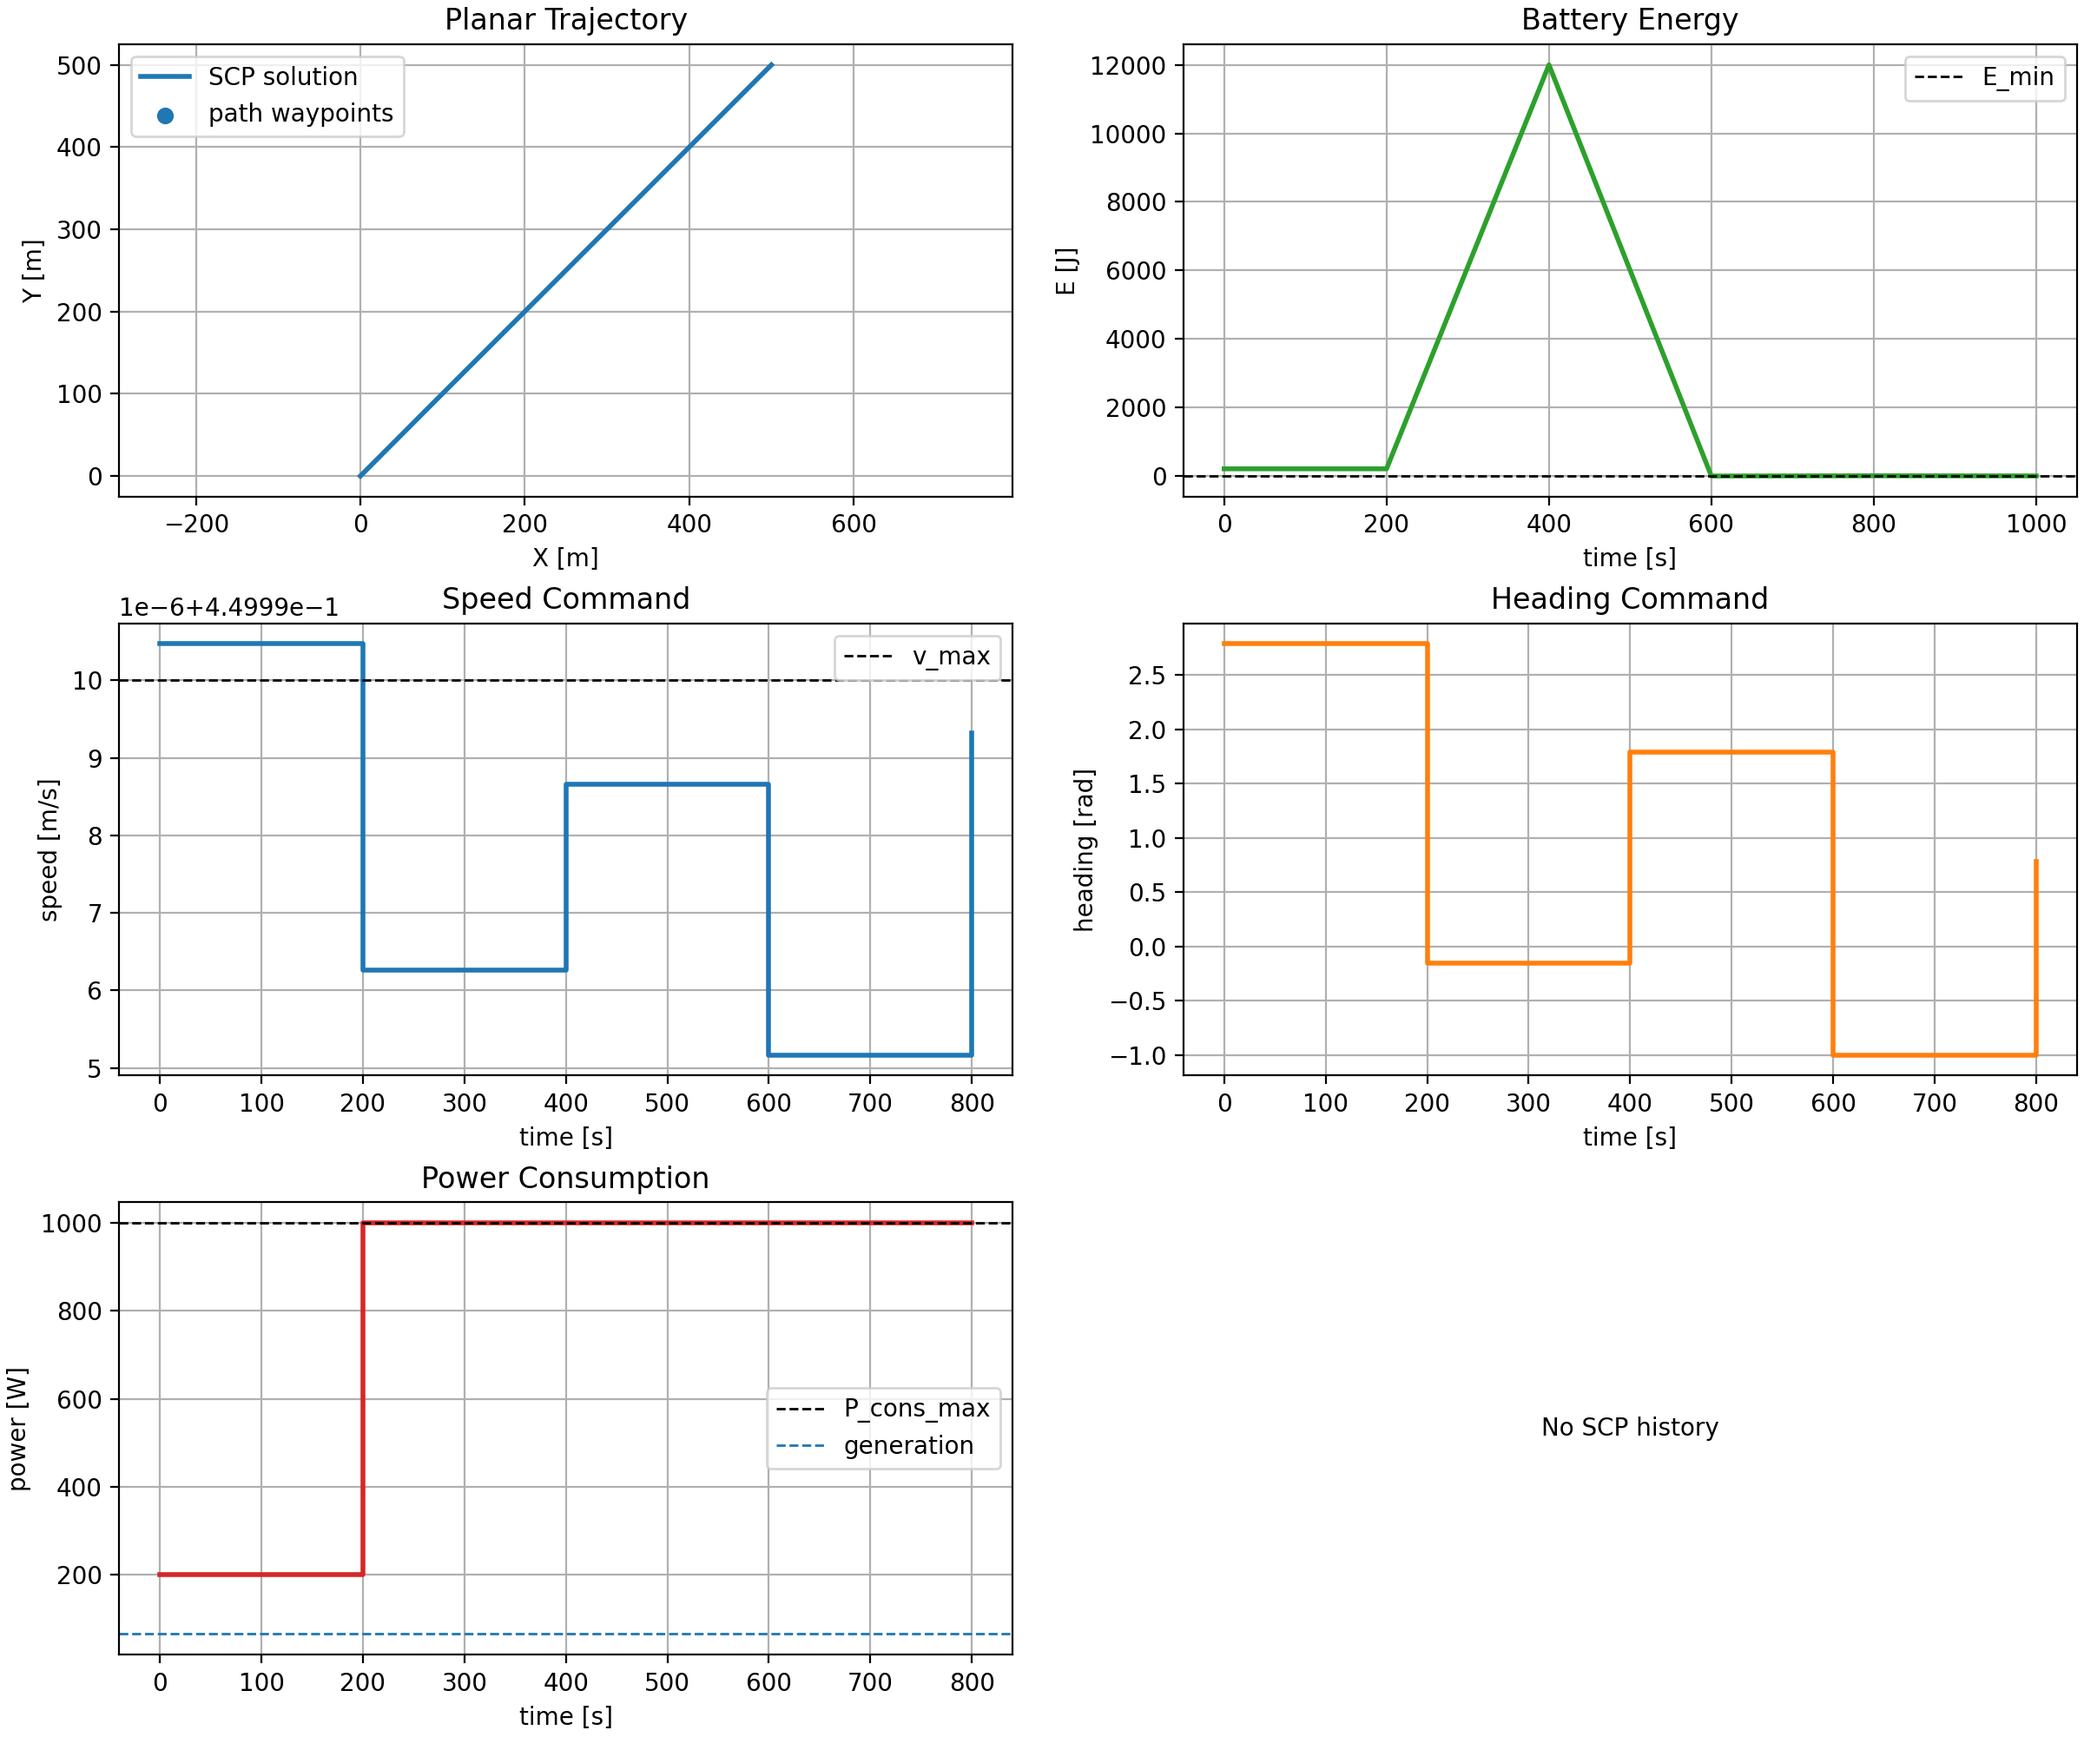
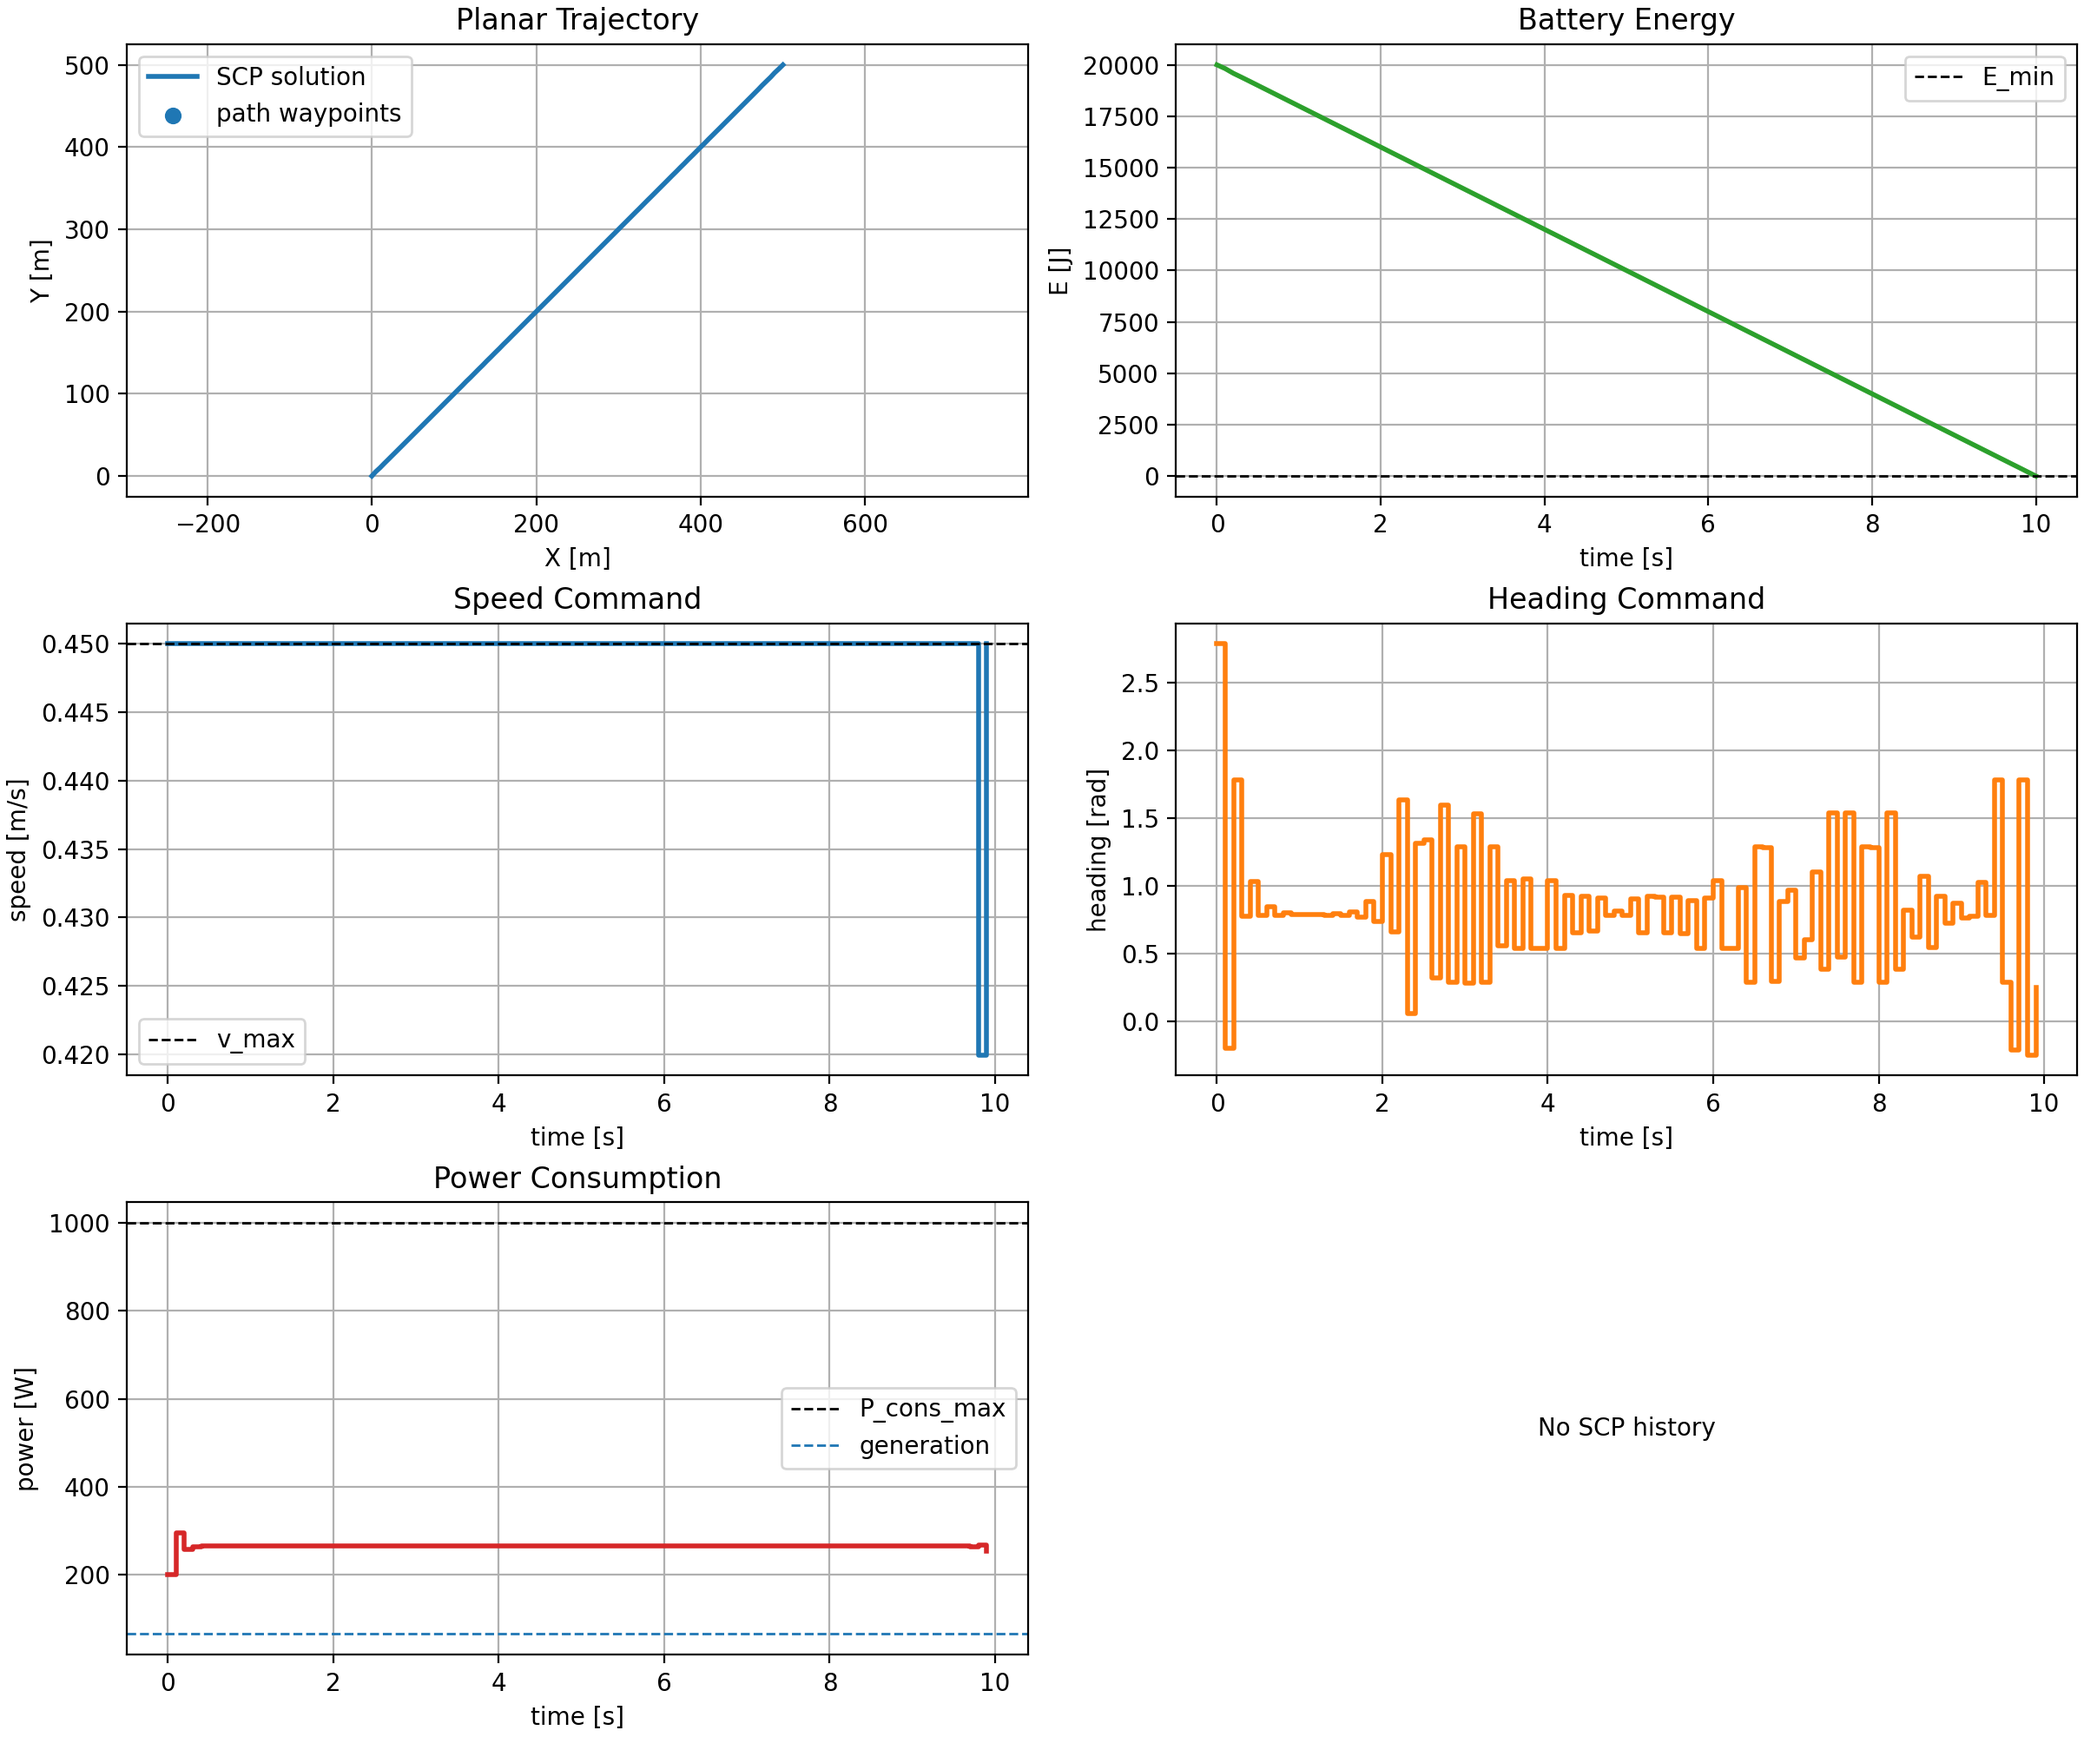
path planner + scp jax working

diff --git a/plot_planner_scp.py b/plot_planner_scp.py
@@ -4,24 +4,23 @@ import os
 import sys
 from pathlib import Path
 
+PROJECT_DIR = Path(__file__).resolve().parent
 import matplotlib
 
 matplotlib.use("Agg")
 import matplotlib.pyplot as plt
 import numpy as np
 
-from optimizer.scp import SCP, cp
+os.environ.setdefault("JAX_PLATFORM_NAME", "cpu")
+from optimizer.scp_jax import SCP
 from path_planner.planner import build_planner_solution
 
-THIS_DIR = Path(__file__).resolve().parent
-OUTPUT_PATH = THIS_DIR / "planner_scp_solution.png"
-
+OUTPUT_PATH = PROJECT_DIR / "planner_scp_solution.png"
 
 def path_length(points: np.ndarray) -> float:
     if len(points) < 2:
         return 0.0
     return float(np.sum(np.linalg.norm(np.diff(points[:, :2], axis=0), axis=1)))
-
 
 def build_planner_path(n_waypoints: int = 40):
     return build_planner_solution(
@@ -32,25 +31,24 @@ def build_planner_path(n_waypoints: int = 40):
         smoothing_passes=3,
     )
 
-
-def build_scp_from_path(path_points, max_horizon_steps: int = 80) -> SCP:
+def build_scp_from_path(path_points, max_horizon_steps: int = 100) -> SCP:
     points = np.asarray(path_points, dtype=float)
     nominal_speed = 0.4
-    final_time_s = path_length(points) / nominal_speed
-    horizon_steps = min(max_horizon_steps, max(2, len(points) - 1))
-    dt = final_time_s / horizon_steps
-    final_time_s = horizon_steps * dt
+    T_f = path_length(points) / nominal_speed       # final time
+    # print("Number of points in path: ", len(points))
+
+    # horizon_steps = min(max_horizon_steps, max(2, len(points) - 1))
+    horizon_steps = max_horizon_steps
+    dt = T_f / horizon_steps
 
     return SCP(
         dt=dt,
-        final_time_s=final_time_s,
-        max_iterations=5,
+        N=horizon_steps,
         high_level_path=[point.tolist() for point in points],
     )
 
-
 def power_trace(scp: SCP, x: np.ndarray, u: np.ndarray) -> np.ndarray:
-    return np.array([scp.model.P(x[:, k], u[:, k], scp.dt) for k in range(scp.horizon_steps)])
+    return np.array([scp.model.P(x[k], u[k], scp.dt) for k in range(u.shape[0])], dtype=float)
 
 
 def plot_results(
@@ -81,13 +79,13 @@ def plot_results(
     fig.colorbar(image, ax=axes[0, 0], label="risk")
     axes[0, 0].plot(raw[:, 0] / 1e3, raw[:, 1] / 1e3, color="white", lw=1.2, label="A* raw")
     axes[0, 0].plot(smooth[:, 0] / 1e3, smooth[:, 1] / 1e3, color="lime", lw=2.0, label="smoothed path")
-    axes[0, 0].plot(x_plot[0] / 1e3, x_plot[1] / 1e3, color="cyan", lw=2.0, label="SCP trajectory")
+    axes[0, 0].plot(x_plot[:, 0] / 1e3, x_plot[:, 1] / 1e3, color="cyan", lw=2.0, label="SCP trajectory")
     axes[0, 0].set_title("Planner Path and SCP Trajectory")
     axes[0, 0].set_xlabel("x [km]")
     axes[0, 0].set_ylabel("y [km]")
     axes[0, 0].legend(loc="best")
 
-    axes[0, 1].plot(t_state, x_plot[2], color="tab:green", lw=2.0)
+    axes[0, 1].plot(t_state, x_plot[:, 2], color="tab:green", lw=2.0)
     axes[0, 1].axhline(scp.E_min, color="black", ls="--", lw=1.0, label="E_min")
     axes[0, 1].set_title("Battery Energy")
     axes[0, 1].set_xlabel("time [s]")
@@ -95,7 +93,7 @@ def plot_results(
     axes[0, 1].grid(True)
     axes[0, 1].legend()
 
-    axes[1, 0].step(t_control, u_plot[0], where="post", lw=2.0)
+    axes[1, 0].step(t_control, u_plot[:, 0], where="post", lw=2.0)
     axes[1, 0].axhline(scp.v_max, color="black", ls="--", lw=1.0, label="v_max")
     axes[1, 0].set_title("Speed Command")
     axes[1, 0].set_xlabel("time [s]")
@@ -103,7 +101,7 @@ def plot_results(
     axes[1, 0].grid(True)
     axes[1, 0].legend()
 
-    axes[1, 1].step(t_control, u_plot[1], where="post", lw=2.0, color="tab:orange")
+    axes[1, 1].step(t_control, u_plot[:, 1], where="post", lw=2.0, color="tab:orange")
     axes[1, 1].set_title("Heading Command")
     axes[1, 1].set_xlabel("time [s]")
     axes[1, 1].set_ylabel("heading [rad]")
@@ -119,16 +117,12 @@ def plot_results(
     axes[2, 0].legend()
 
     if scp.history:
-        iterations = [entry["iteration"] for entry in scp.history if "J_nl" in entry]
-        objectives = [entry["J_nl"] for entry in scp.history if "J_nl" in entry]
-        defects = [entry["defect_dyn"] for entry in scp.history if "defect_dyn" in entry]
-        axes[2, 1].plot(iterations, objectives, marker="o", label="J_nl")
+        iterations = [entry["iteration"] for entry in scp.history if "objective" in entry]
+        objectives = [entry["objective"] for entry in scp.history if "objective" in entry]
+        axes[2, 1].plot(iterations, objectives, marker="o", label="J")
         axes[2, 1].set_xlabel("iteration")
-        axes[2, 1].set_ylabel("objective")
+        axes[2, 1].set_ylabel("J")
         axes[2, 1].grid(True)
-        defect_axis = axes[2, 1].twinx()
-        defect_axis.plot(iterations, defects, marker="s", color="tab:purple", label="defect")
-        defect_axis.set_ylabel("dynamics defect")
         axes[2, 1].set_title("SCP Iteration History")
     else:
         axes[2, 1].text(
@@ -143,36 +137,43 @@ def plot_results(
     fig.savefig(output_path, dpi=180)
     plt.close(fig)
 
-
 def main() -> None:
     try:
         terrain, raw_path, high_level_path, _, _ = build_planner_path()
     except ImportError as exc:
         raise SystemExit(str(exc)) from None
 
+    high_level_path = np.asarray(high_level_path, dtype=float)
     scp = build_scp_from_path(high_level_path)
-    x_nominal, u_nominal = scp.initialize_nominal_trajectory()
 
-    x_star = None
-    u_star = None
-    if cp is None:
-        print("cvxpy is not installed; plotting SCP nominal warm start only.")
-    else:
-        x_star, u_star = scp.scp_algorithm()
+    x0 = np.array([high_level_path[0, 0], high_level_path[0, 1], scp.model.battery_charge_j, 0.0, 0.0, 0.0], dtype=float)
+    x_goal = np.array([high_level_path[-1, 0], high_level_path[-1, 1], scp.model.min_battery_charge_j, 0.0, 0.0, 0.0], dtype=float)
+    x_init = np.zeros((scp.N + 1, scp.n_state), dtype=float)
+    u_init = np.zeros((scp.N, scp.m_control), dtype=float)
+    for k in range(scp.N + 1):
+        alpha = k / scp.N
+        x_init[k] = (1.0 - alpha) * x0 + alpha * x_goal
+    delta = x_goal[:2] - x0[:2]
+    heading = float(np.arctan2(delta[1], delta[0])) if np.linalg.norm(delta) > 0.0 else 0.0
+    speed = min(scp.v_max, np.linalg.norm(delta) / max(scp.N * scp.dt, 1.0))
+    for k in range(scp.N):
+        u_init[k] = [speed, heading]
+        x_init[k, 3] = speed
+        x_init[k, 4] = heading
+        x_init[k, 5] = 0.0
+    x_star, u_star = scp.solve_scp(x0, x_goal, scp.N, scp.eps, x_init=x_init, u_init=u_init)
 
-    plot_results(terrain, raw_path, high_level_path, scp, x_nominal, u_nominal, x_star, u_star, OUTPUT_PATH)
-    x_plot = x_star if x_star is not None else x_nominal
-    u_plot = u_star if u_star is not None else u_nominal
+    plot_results(terrain, raw_path, high_level_path, scp, x_init, u_init, x_star, u_star, OUTPUT_PATH)
+    x_plot = x_star
+    u_plot = u_star
 
     print(f"Saved planner + SCP plot: {OUTPUT_PATH}")
     print(f"Planner raw waypoints: {len(raw_path)}")
     print(f"SCP high-level path waypoints: {len(high_level_path)}")
     print(f"SCP horizon steps: {scp.horizon_steps}")
     print(f"SCP final time: {scp.final_time_s:.1f} s")
-    print(f"Trajectory length: {path_length(x_plot[:2].T):.1f} m")
-    print(f"Final battery: {x_plot[2, -1]:.2f} J")
-    print(f"Objective: {scp.nonlinear_objective(x_plot, u_plot):.6f}")
-
+    print(f"Trajectory length: {path_length(x_plot):.1f} m")
+    print(f"Final battery: {x_plot[-1, 2]:.2f} J")
 
 if __name__ == "__main__":
     main()

diff --git a/optimizer/scp_jax.py b/optimizer/scp_jax.py
@@ -20,19 +20,16 @@ from rover_dynamic_model import RoverModel
 class SCP:
     n_state: int = 6     # state dimension
     m_control: int = 2   # control dimension
-    dt: float = 1.0
+    dt: float = 0.1
     eps: int = 1e-3      # SCP convergence tolerance
-    final_time_s: float = 1.0
-
-    N = 5           # MPC horizon
-    N_scp = 25       # maximum number of SCP iterations
+    N: int = 100         # MPC horizon
+    N_scp: int = 25      # maximum number of SCP iterations
+    final_time_s: float = 0.0
 
     model: RoverModel = field(
         default_factory=lambda: RoverModel(
             battery_charge_j=20_000.0,
             power_generation_w=65.0,
-            phi=np.deg2rad(0.0),
-            xi=np.deg2rad(0.0),
         )
     )
 
@@ -53,6 +50,9 @@ class SCP:
     eps_x: float = 1.0e-3
     eps_J: float = 1.0e-3
 
+    def __post_init__(self) -> None:
+        self.final_time_s = self.N * self.dt
+
     @property
     def v_max(self):
         return self.model.max_speed_mps
@@ -71,7 +71,7 @@ class SCP:
 
     @property
     def horizon_steps(self):
-        return max(int(round(self.final_time_s / self.dt)), 2)
+        return self.N
 
     # x0 = np.array([-1.0, -1.0, 0.0, 0.0])  # initial state
     # x_goal = np.array([1.0, 1.0, 0.0, 0.0])  # desired final state
@@ -182,6 +182,13 @@ class SCP:
         for i in range(self.N_scp):
             x_bar, u_bar, nu_bar, J_bar[i + 1] = self.scp_iteration(x0, x_goal, x_bar, u_bar)
             dJ_bar = np.abs(J_bar[i + 1] - J_bar[i])
+            self.history.append(
+                {
+                    "iteration": i,
+                    "objective": float(J_bar[i + 1]),
+                    "delta_objective": float(dJ_bar),
+                }
+            )
 
             # defect_dyn = self.nonlinear_dynamics_defect(x_bar, u_bar)
             # virtual_norm = float(np.max(np.abs(nu_bar)))

diff --git a/optimizer/test_scp_jax.py b/optimizer/test_scp_jax.py
@@ -56,7 +56,7 @@ def plot_solution(scp: SCP, x: np.ndarray, u: np.ndarray, output_path: Path) -> 
     axes[0, 0].grid(True)
     axes[0, 0].legend()
 
-    axes[0, 1].plot(t_state, x[2], color="tab:green", linewidth=2.0)
+    axes[0, 1].plot(t_state, x[:, 2], color="tab:green", linewidth=2.0)
     axes[0, 1].axhline(scp.E_min, color="black", linestyle="--", linewidth=1.0, label="E_min")
     axes[0, 1].set_title("Battery Energy")
     axes[0, 1].set_xlabel("time [s]")
@@ -105,7 +105,7 @@ def plot_solution(scp: SCP, x: np.ndarray, u: np.ndarray, output_path: Path) -> 
 
 
 def main():
-    scp = SCP(dt=1.0, final_time_s=1000.0)
+    scp = SCP(dt=1.0)# final_time_s=1000.0)
 
     start = np.array([0.0, 0.0, scp.model.battery_charge_j, 0.0, 0.0, 0.0], dtype=float)
     goal = np.array([500.0, 500.0, 0.0, 0.0, 0.0, 0.0], dtype=float)
